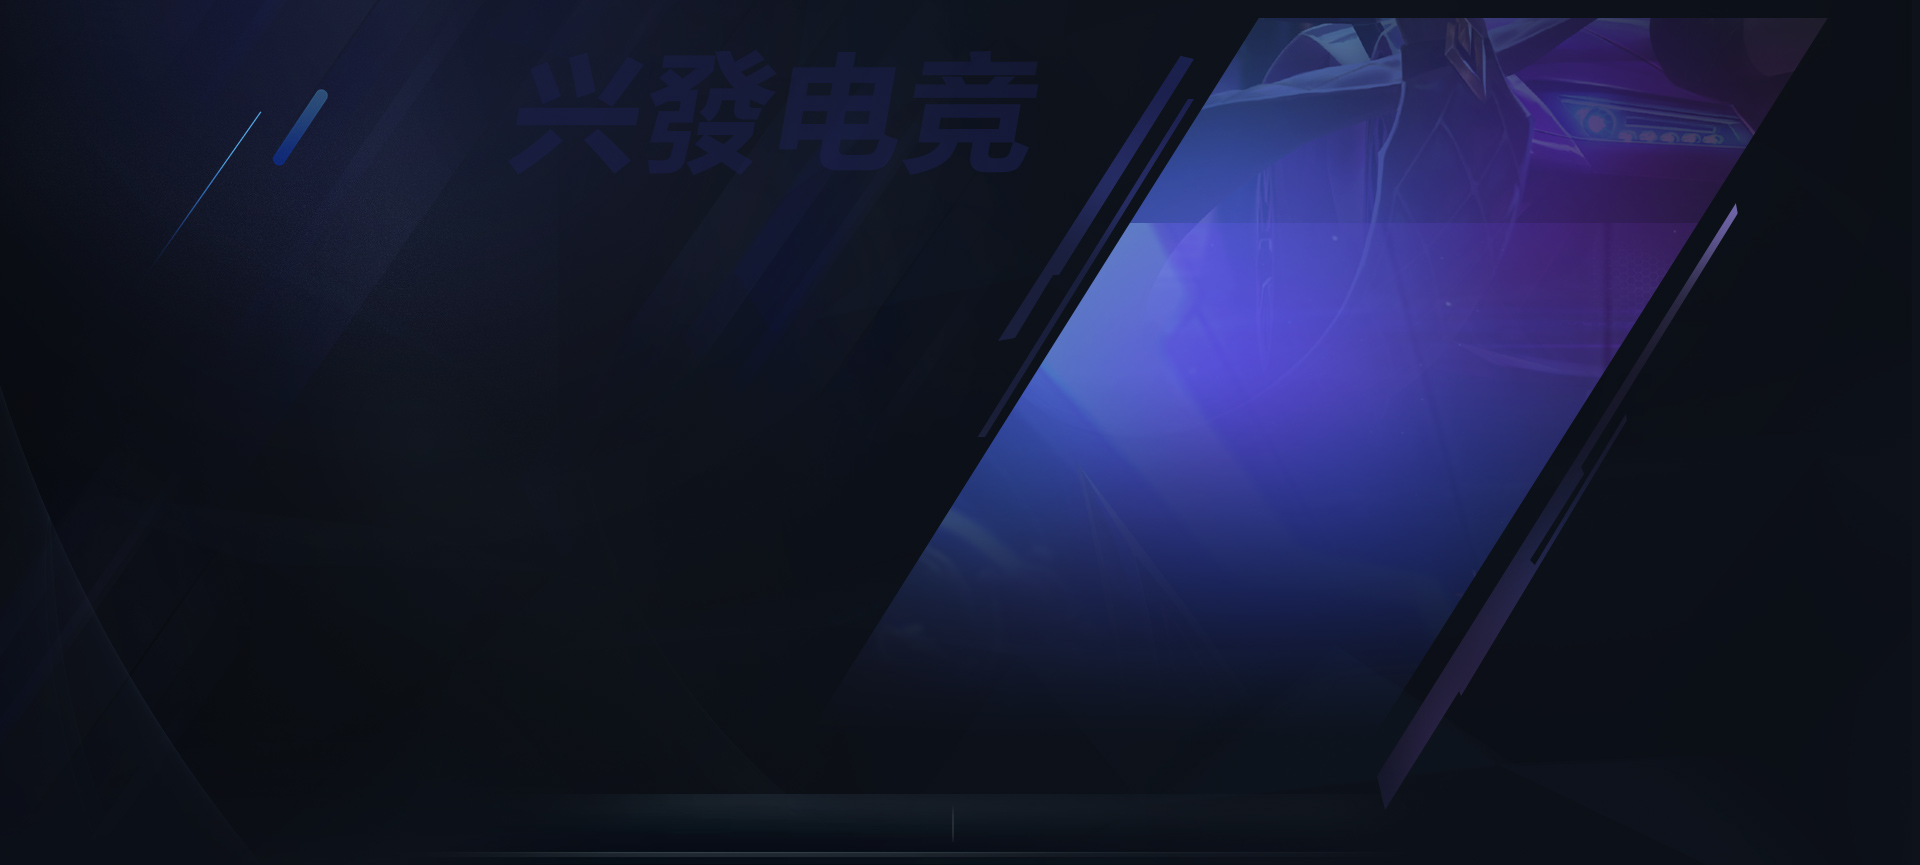
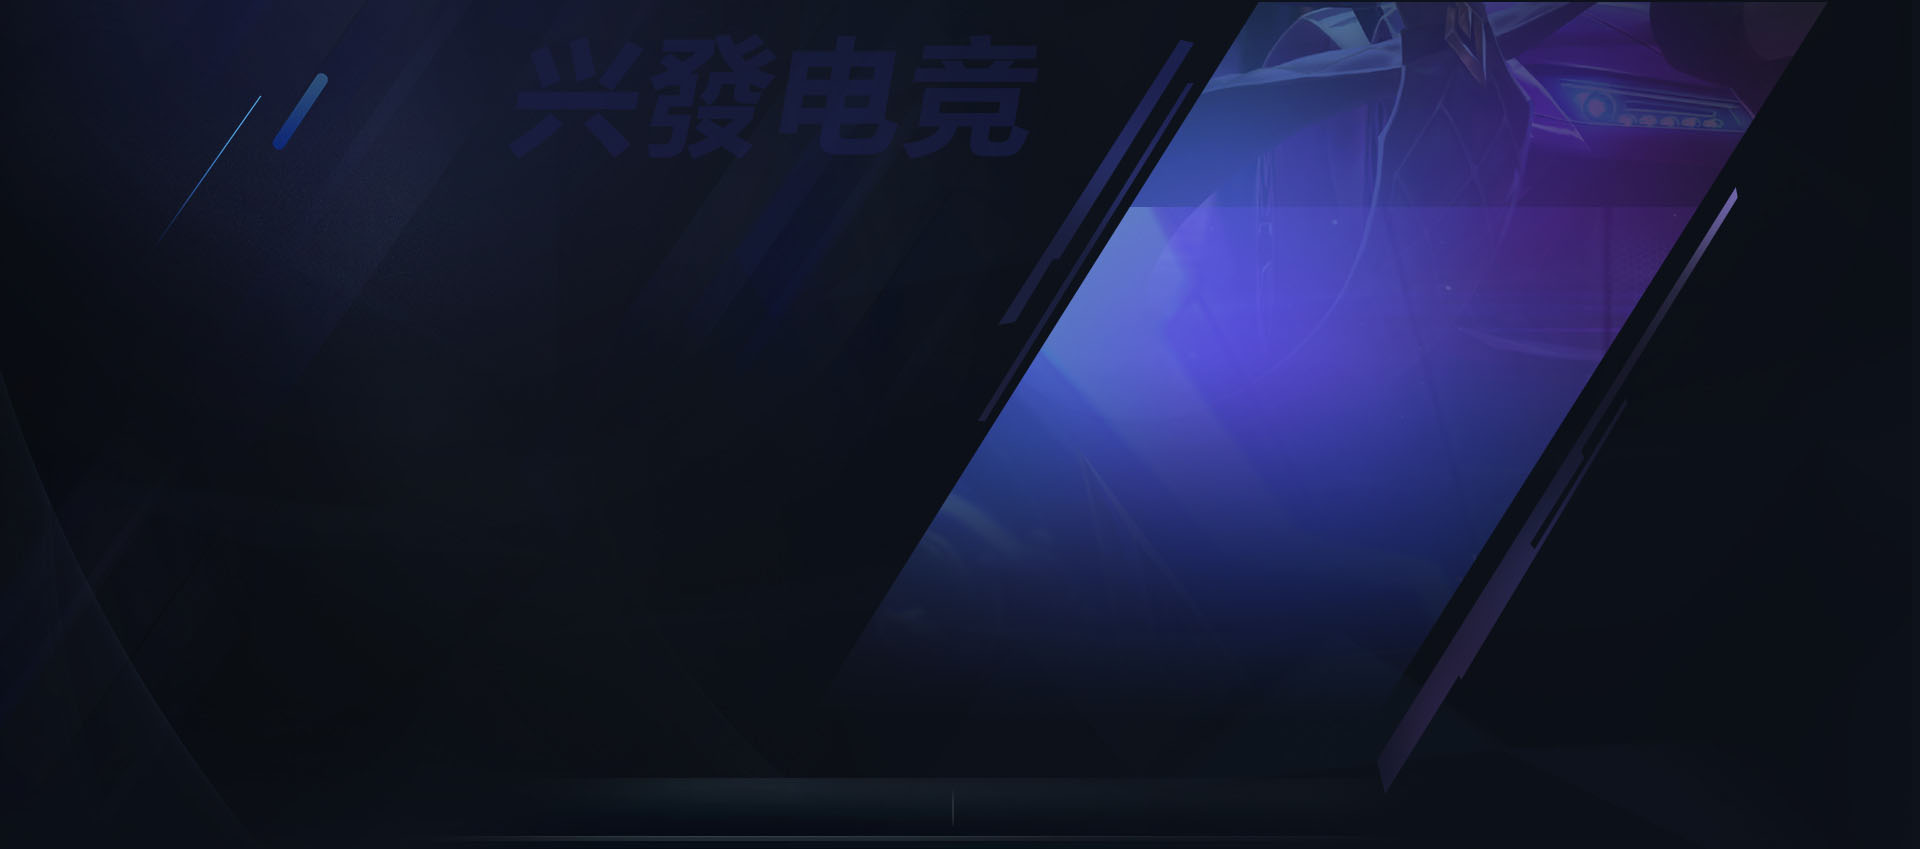
90% done

diff --git a/src/views/ChessAndCardGame/ChessAndCardGame.vue b/src/views/ChessAndCardGame/ChessAndCardGame.vue
@@ -1,0 +1,169 @@
+<template>
+  <div>
+    <section class="qp-game-page">
+      <div class="fishing-game-section">
+        <div class="container">
+          <div class="game-detail-left">
+            <img src="../../assets/images/qp/图层-337.png" alt="图层-337" class="title 图层-337">
+
+            <div class="game-detail-list">
+              <div class="game-detail-item">
+                <h4>创新独特 玩法新颖</h4>
+                <p>横空出世，立刻以其高度还原的线下游戏的体验和专业的竞技 性赢得了大量玩家的追捧！</p>
+              </div>
+            </div>
+
+            <div class="game-info">
+              <ul>
+                <li>
+                  <i class="icon icon-flagship-hall"></i>
+                  <span>旗舰厅</span>
+                </li>
+                <li>
+                  <i class="icon icon-international-room"></i>
+                  <span>国际厅</span>
+                </li>
+                <li>
+                  <i class="icon icon-vip-room"></i>
+                  <span>贵宾厅</span>
+                </li>
+                <li>
+                  <i class="icon icon-baccarat-room"></i>
+                  <span>百家乐</span>
+                </li>
+              </ul>
+
+              <button type="button" class="play-game">立即游戏</button>
+            </div>
+
+          </div>
+
+          <img src="../../assets/images/qp/图层-214.png" class="big-img-2" alt="img">
+
+          <img src="../../assets/images/qp/图层-211.png" class="effect-2" alt="图层-211">
+          <img src="../../assets/images/qp/图层-212.png" class="effect-3" alt="图层-212">
+          
+        </div>
+
+        <div class="main-nav-game">
+          <ul>
+            <li>
+              <router-link to="/chess-and-card-game"><i class="icon icon-xf"></i> 大唐棋牌</router-link>
+            </li>
+            <li>
+              <router-link to="/"><i class="icon icon-xf"></i> 开元棋牌</router-link>
+            </li>
+          </ul>
+        </div>
+      </div>
+    </section>
+    <Footer />
+  </div>
+</template>
+
+<script>
+import Footer from "../../components/Footer.vue";
+export default {
+  components: {
+    Footer
+  },
+  name: 'ChessAndCardGame'
+}
+</script>
+
+<style lang="scss">
+.qp-game-page {
+  font-size: 14px;
+  color: #959dab;
+  display: block;
+  position: relative;
+  background-image: url("../../assets/images/qp/qp_b.jpg");
+  background-repeat: no-repeat;
+  background-position: top center;
+  background-size: cover;
+  min-height: 793px;
+  .game-detail-left {
+    margin-top: 85px;
+  }
+  .main-nav-game {
+    bottom: 30px;
+  }
+  .play-game {
+    margin-top: 80px;
+  }
+}
+.big-img-2 {
+  width: 502px;
+  position: absolute;
+  top: 40px;
+  right: 150px;
+  z-index: 2;
+}
+.effect-2 {
+  width: 480px;
+  position: absolute;
+  top: 206px;
+  right: 30px;
+  z-index: 3;
+}
+.effect-3 {
+  width: 145px;
+  position: absolute;
+  top: 350px;
+  right: 500px;
+  z-index: 3;
+}
+.game-info {
+  .icon {
+    &.icon-flagship-hall {
+      background-image: url("../../assets/images/qp/qp_icon.png");
+      background-position: 0 0;
+    }
+    &.icon-international-room {
+      background-image: url("../../assets/images/qp/qp_icon.png");
+      background-position: -91px 0;
+    }
+    &.icon-vip-room {
+      background-image: url("../../assets/images/qp/qp_icon.png");
+      background-position: -179px 0;
+    }
+    &.icon-baccarat-room {
+      background-image: url("../../assets/images/qp/qp_icon.png");
+      background-position: -269px 0;
+    }
+  }
+}
+
+
+
+
+
+// .game-info  {
+//   .icon {
+//     &.icon-dota {
+//       background-image: url("../../assets/images/dj/dj_icon.png");
+//       background-position: 0 0;
+//     }
+//     &.icon-masters {
+//       background-image: url("../../assets/images/dj/dj_icon.png");
+//       background-position: -81px 0;
+//       width: 55px;
+//     }
+//     &.icon-tga {
+//       background-image: url("../../assets/images/dj/dj_icon.png");
+//       background-position: -174px 0;
+//       width: 48px;
+//     }
+//     &.icon-league {
+//       background-image: url("../../assets/images/dj/dj_icon.png");
+//       background-position: -264px -3px;
+//       height: 49px;
+//     }
+//     &.icon-the-summit {
+//       background-image: url("../../assets/images/dj/dj_icon.png");
+//       background-position: -348px -2px;
+//       width: 61px;
+//     }
+//   }
+// }
+</style>

diff --git a/src/views/XingPowerCompetition/XingPowerCompetition.vue b/src/views/XingPowerCompetition/XingPowerCompetition.vue
@@ -1,6 +1,6 @@
 <template>
   <div>
-    <section class="section dj-game-page">
+    <section class="dj-game-page">
       <div class="fishing-game-section">
         <div class="container">
           <div class="game-detail-left">
@@ -21,24 +21,19 @@
             <div class="game-info">
               <ul>
                 <li>
-                  <i class="icon icon-flagship"></i>
-                  <span>旗舰厅</span>
+                  <i class="icon icon-dota"></i>
                 </li>
                 <li>
-                  <i class="icon icon-international"></i>
-                  <span>国际厅</span>
+                  <i class="icon icon-masters"></i>
                 </li>
                 <li>
-                  <i class="icon icon-vip"></i>
-                  <span>贵宾厅</span>
+                  <i class="icon icon-tga"></i>
                 </li>
                 <li>
-                  <i class="icon icon-baccarat"></i>
-                  <span>百家乐</span>
+                  <i class="icon icon-league"></i>
                 </li>
                 <li>
-                  <i class="icon icon-dragon"></i>
-                  <span>龙虎</span>
+                  <i class="icon icon-the-summit"></i>
                 </li>
               </ul>
 
@@ -47,12 +42,9 @@
 
           </div>
 
-          <div class="game-detail-right">
-            
-          </div>
-          <img src="../../assets/images/dj/图层-233.png" class="big-img" alt="img">
+          <img src="../../assets/images/dj/图层-233.png" class="big-img-1" alt="img">
 
-          <!-- <img src="../../assets/images/FishingGame/图层-367.png" class="bubble" alt="图层-367"> -->
+          <img src="../../assets/images/dj/图层-22.png" class="effect-1" alt="图层-22">
           
         </div>
 
@@ -92,13 +84,53 @@ export default {
   background-repeat: no-repeat;
   background-position: top center;
   background-size: cover;
-  padding-top: 60px;
-  min-height: 864px;
+  min-height: 793px;
+  .game-detail-left {
+    margin-top: 85px;
+  }
+  .main-nav-game {
+    bottom: 15px;
+  }
 }
 .big-img-1 {
-  width: 958px;
+  width: 878px;
   position: absolute;
-  top: -63px;
+  top: 0;
   right: -143px;
+  z-index: 2;
+}
+img.effect-1 {
+  width: 878px;
+  position: absolute;
+  top: -24px;
+  right: 0;
+}
+.game-info  {
+  .icon {
+    &.icon-dota {
+      background-image: url("../../assets/images/dj/dj_icon.png");
+      background-position: 0 0;
+    }
+    &.icon-masters {
+      background-image: url("../../assets/images/dj/dj_icon.png");
+      background-position: -81px 0;
+      width: 55px;
+    }
+    &.icon-tga {
+      background-image: url("../../assets/images/dj/dj_icon.png");
+      background-position: -174px 0;
+      width: 48px;
+    }
+    &.icon-league {
+      background-image: url("../../assets/images/dj/dj_icon.png");
+      background-position: -264px -3px;
+      height: 49px;
+    }
+    &.icon-the-summit {
+      background-image: url("../../assets/images/dj/dj_icon.png");
+      background-position: -348px -2px;
+      width: 61px;
+    }
+  }
 }
 </style>

diff --git a/src/router/index.js b/src/router/index.js
@@ -9,6 +9,7 @@ import AboutUs from '@/views/AboutUs/AboutUs.vue'
 import App from '@/views/App/App.vue'
 import FishingGame from '@/views/FishingGame/FishingGame.vue'
 import XingPowerCompetition from '@/views/XingPowerCompetition/XingPowerCompetition.vue'
+import ChessAndCardGame from '@/views/ChessAndCardGame/ChessAndCardGame.vue'
 
 Vue.use(VueRouter)
 
@@ -47,6 +48,11 @@ const routes = [
 		path: '/xing-power-competition',
 		name: 'XingPowerCompetition',
 		component: XingPowerCompetition
+	},
+	{
+		path: '/chess-and-card-game',
+		name: 'ChessAndCardGame',
+		component: ChessAndCardGame
 	},
 	{
 		path: '*',

diff --git a/src/views/FishingGame/FishingGame.vue b/src/views/FishingGame/FishingGame.vue
@@ -242,6 +242,7 @@ section.section.fishing-game-page {
   position: absolute;
   width: 100%;
   bottom: 27px;
+  z-index: 3;
   ul {
     display: flex;
     align-items: center;
@@ -265,6 +266,7 @@ section.section.fishing-game-page {
           background-repeat: no-repeat;
           background-position: center;
         }
+        &:hover,
         &.router-link-exact-active {
           color: #32ceed;
           &:before {

diff --git a/src/components/Navigation.vue b/src/components/Navigation.vue
@@ -115,6 +115,8 @@ export default {
   display: flex;
   align-items: center;
   justify-content: center;
+  position: relative;
+  z-index: 2;
   .container {
     display: flex;
     align-items: center;
